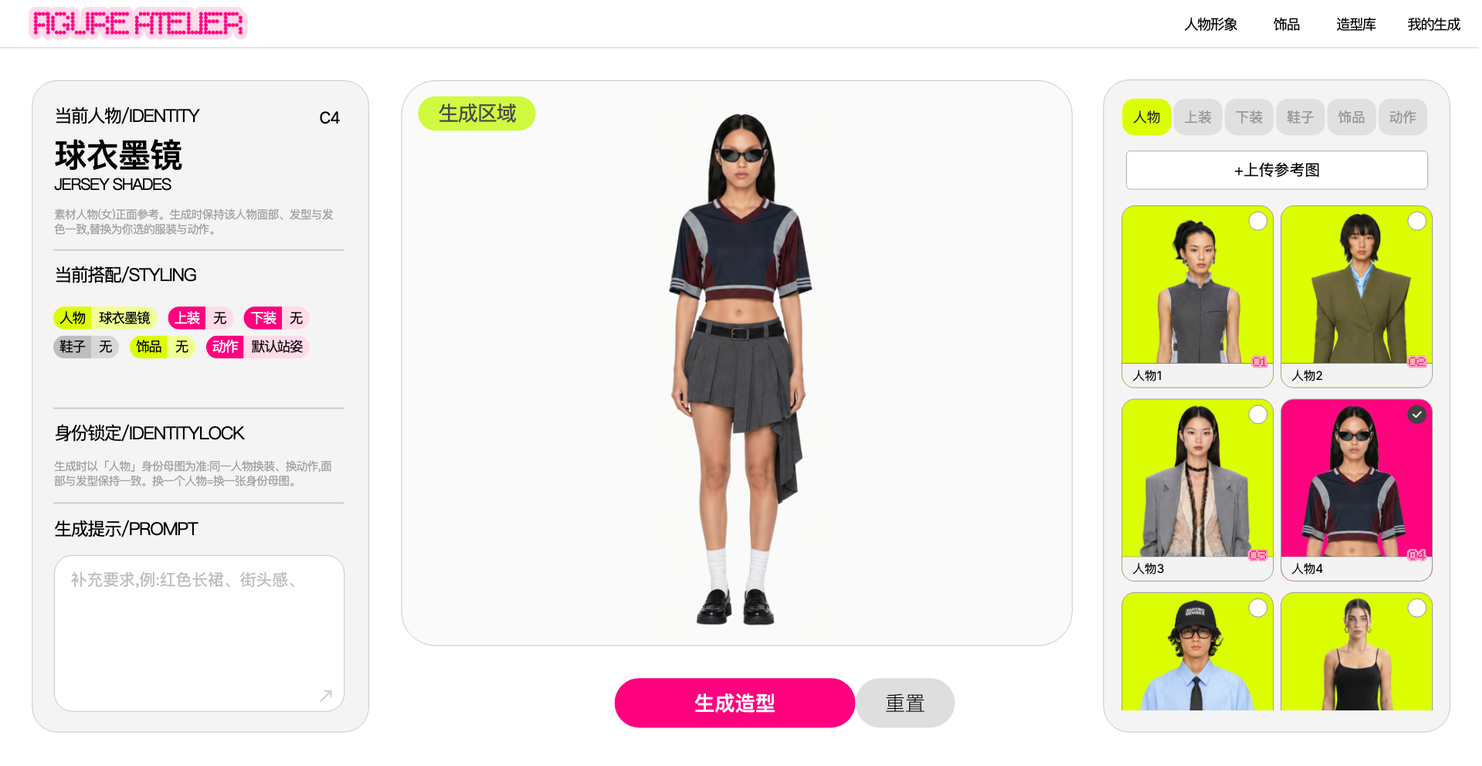
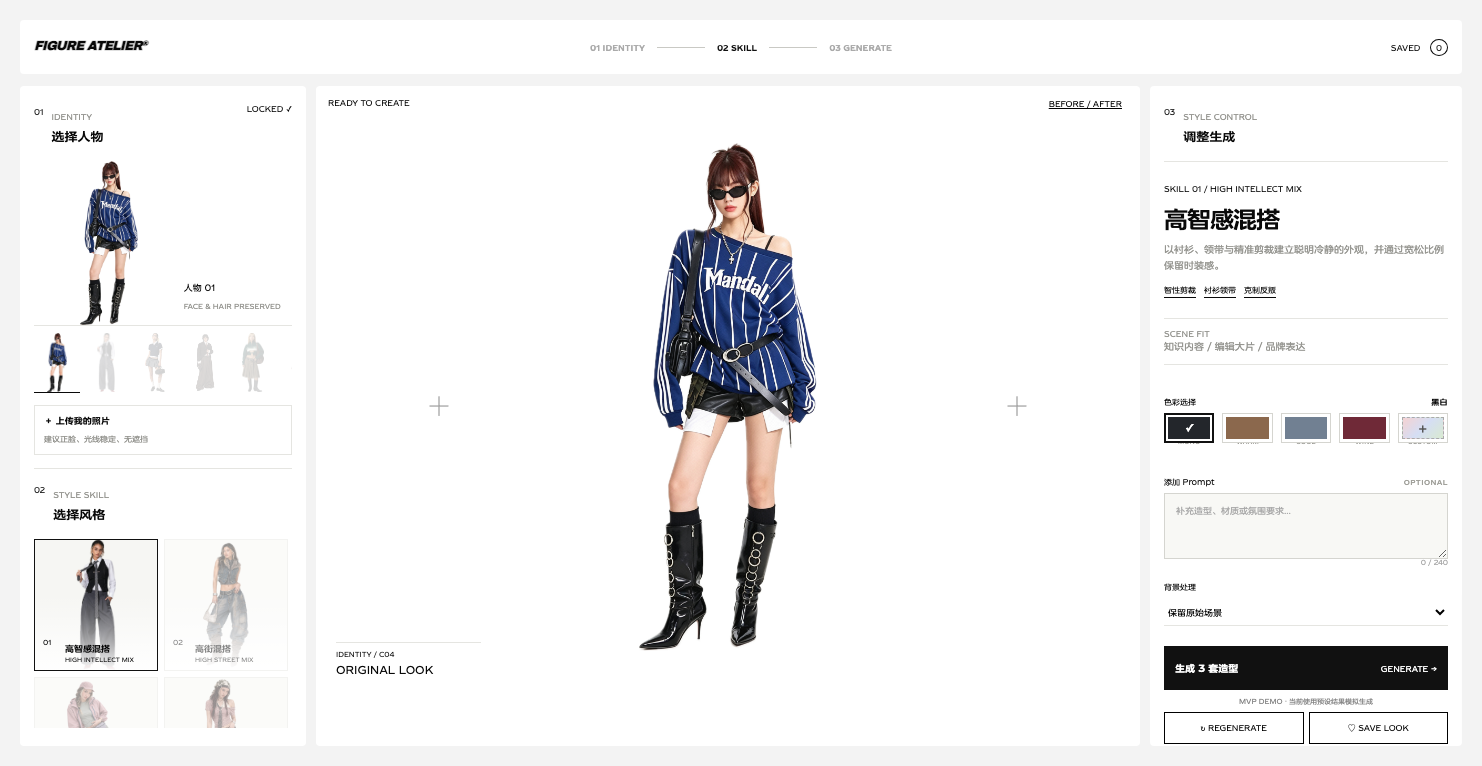
refresh studio preview and smooth collage animation

diff --git a/portfolio.html b/portfolio.html
@@ -64,7 +64,7 @@ body.detail-on .detail-panel{opacity:1;transform:none}
 .profile-composition{position:absolute;left:0;top:1200px;width:1920px;height:700px;overflow:hidden;background:#fff;z-index:4;color:#969696}
 .profile-copy-img{position:absolute;left:117px;top:84px;width:714px;height:533px;z-index:2}
 .collage-blank{position:absolute;left:-80px;top:302px;width:2080px;height:784px;background:#fff;z-index:2}
-.piece-wrap{position:absolute;left:0;top:0;z-index:3;will-change:transform;pointer-events:auto;-webkit-user-drag:none}
+.piece-wrap{position:absolute;left:0;top:0;z-index:3;will-change:transform;backface-visibility:hidden;transform-style:preserve-3d;contain:layout paint;pointer-events:auto;-webkit-user-drag:none}
 .piece{position:absolute;left:0;top:0;width:100%;height:100%;pointer-events:none;-webkit-user-drag:none;user-select:none}
 .pc-gray{filter:grayscale(1)}
 .pc-color{opacity:0;transition:opacity .35s ease}
@@ -161,7 +161,7 @@ html.pdf-lock,body.pdf-lock{overflow:hidden}
   <img class="sec1" data-src="images/figma-home/lower-sec1.png" alt="" loading="lazy" decoding="async">
   <img class="sec2" data-src="images/figma-home/lower-sec2.png" alt="" loading="lazy" decoding="async">
   <section class="profile-composition" id="profile" aria-label="个人简介">
-    <img class="profile-copy-img" data-src="images/figma-home/profile-copy.png?v=20260920" alt="龚珣个人简介" loading="lazy" decoding="async">
+    <img class="profile-copy-img" src="images/figma-home/profile-copy-hd.png?v=20260921" alt="龚珣个人简介" decoding="async">
     <div id="sceneLayer"></div>
     <div class="scene-hit" id="sceneHit" tabindex="0" aria-label="右侧动态场景"></div>
   </section>
@@ -198,7 +198,7 @@ html.pdf-lock,body.pdf-lock{overflow:hidden}
   <div class="garden-label" style="left:1232px;top:2236px;width:203px"><div class="zh">品牌设计作品</div><div class="en">Internship design work</div></div>
   <div class="garden-label" style="left:1534px;top:2386px;width:148px"><div class="zh">IP设计作品</div><div class="en">IP Design Works</div></div>
   <div class="vibe-blank"></div>
-  <img class="vibe-shot" data-src="images/figma-home/vibe-studio.png" style="left:181px;top:3332px;width:741px;height:383px" alt="人物造型生成平台工作台" loading="lazy" decoding="async">
+  <img class="vibe-shot" data-src="images/figma-home/vibe-studio.png?v=20260921" style="left:181px;top:3332px;width:741px;height:383px" alt="人物造型生成平台工作台" loading="lazy" decoding="async">
   <img class="vibe-shot" data-src="images/figma-home/vibe-poster.png" style="left:988px;top:3332px;width:743px;height:383px" alt="模版替换网站工作台" loading="lazy" decoding="async">
   <div class="vibe-title"><span class="section-title-icon">🥣</span><span class="section-title-text">Vibecoding project</span></div>
   <div class="vibe-pill" style="left:351px;top:3744px;width:311px">人物造型生成平台</div>
@@ -704,42 +704,57 @@ requestAnimationFrame(loop);
     ['p11.png',1592.8,633.2,312.5,312.5],
     ['p13.png',135.3,402.1,361.4,312.1],
   ];
-  const elds=P.map(([f,x0,y0,w,h,cf])=>{
+  const images=[];
+  const elds=P.map(([f,x0,y0,w,h,cf],i)=>{
     const wrap=document.createElement('div');
     wrap.className='piece-wrap';wrap.style.width=w+'px';wrap.style.height=h+'px';
     const g=document.createElement('img');g.className='piece pc-gray';g.loading='lazy';g.decoding='async';g.dataset.src=DIR+f;
     const c=document.createElement('img');c.className='piece pc-color';c.loading='lazy';c.decoding='async';c.dataset.src=DIR+(cf||f);
+    images.push(g,c);
     wrap.appendChild(g);wrap.appendChild(c);layer.appendChild(wrap);
-    const sx=x0+(Math.random()-0.5)*120,sy=-h-250-Math.random()*500,sr=(Math.random()-0.5)*140;
+    const sx=x0+((i%5)-2)*24,sy=-h-330-(i%4)*105,sr=((i*37)%120)-60;
     wrap.style.transform=`translate(${sx}px,${sy}px) rotate(${sr}deg)`;
     return {wrap,x0,y0,sx,sy,sr};
   });
-  let played=false;
-  function reset(){
-    elds.forEach(e=>{e.wrap.getAnimations().forEach(a=>a.cancel());e.wrap.style.transform=`translate(${e.sx}px,${e.sy}px) rotate(${e.sr}deg)`;});
-    played=false;
+  let played=false,ready=false,inView=false,loading;
+  function loadPieces(){
+    if(loading)return loading;
+    loading=Promise.all(images.map(im=>{
+      im.loading='eager';
+      if(im.dataset.src){im.src=im.dataset.src;im.removeAttribute('data-src');}
+      if(im.complete&&im.naturalWidth)return im.decode?im.decode().catch(()=>{}):Promise.resolve();
+      return new Promise(resolve=>{
+        im.addEventListener('load',resolve,{once:true});
+        im.addEventListener('error',resolve,{once:true});
+      }).then(()=>im.decode?im.decode().catch(()=>{}):undefined);
+    })).then(()=>{ready=true;requestAnimationFrame(()=>{if(inView&&!played)drop();});});
+    return loading;
   }
   function drop(){
+    if(!ready||played)return;
     played=true;
     elds.forEach((e,i)=>{
       e.wrap.animate([
-        {transform:`translate(${e.sx}px,${e.sy}px) rotate(${e.sr}deg)`,easing:'cubic-bezier(.5,.02,.8,.4)'},
-        {transform:`translate(${e.x0}px,${e.y0+30}px) rotate(10deg)`,offset:.74},
-        {transform:`translate(${e.x0}px,${e.y0-12}px) rotate(-3deg)`,offset:.9,easing:'cubic-bezier(.3,.7,.4,1.35)'},
+        {transform:`translate3d(${e.sx}px,${e.sy}px,0) rotate(${e.sr}deg)`},
+        {transform:`translate3d(${e.x0}px,${e.y0+24}px,0) rotate(8deg)`,offset:.78},
+        {transform:`translate3d(${e.x0}px,${e.y0-9}px,0) rotate(-2deg)`,offset:.91},
         {transform:`translate(${e.x0}px,${e.y0}px) rotate(0deg)`,offset:1}
-      ],{duration:850+Math.random()*300,delay:i*130+Math.random()*120,fill:'forwards'});
+      ],{duration:980,delay:i*75,easing:'cubic-bezier(.22,.72,.24,1)',fill:'forwards'});
     });
   }
-  let t;
+  const target=document.querySelector('.collage-blank');
+  let ticking=false;
+  function checkPosition(){
+    ticking=false;
+    const r=target.getBoundingClientRect();
+    inView=r.bottom>-220&&r.top<innerHeight+450;
+    if(inView){loadPieces();if(ready)drop();}
+  }
   addEventListener('scroll',()=>{
-    clearTimeout(t);
-    t=setTimeout(()=>{
-      const ih=innerHeight,sc=Math.min(innerWidth/1920,1);
-      const on2=scrollY>=ih*0.6&&scrollY<ih+1002*sc*0.55;
-      if(on2&&!played)drop();
-      else if(!on2&&played)reset();
-    },120);
-  });
+    if(!ticking){ticking=true;requestAnimationFrame(checkPosition);}
+  },{passive:true});
+  addEventListener('resize',checkPosition,{passive:true});
+  requestAnimationFrame(checkPosition);
 })();
 </script>
 <script>
